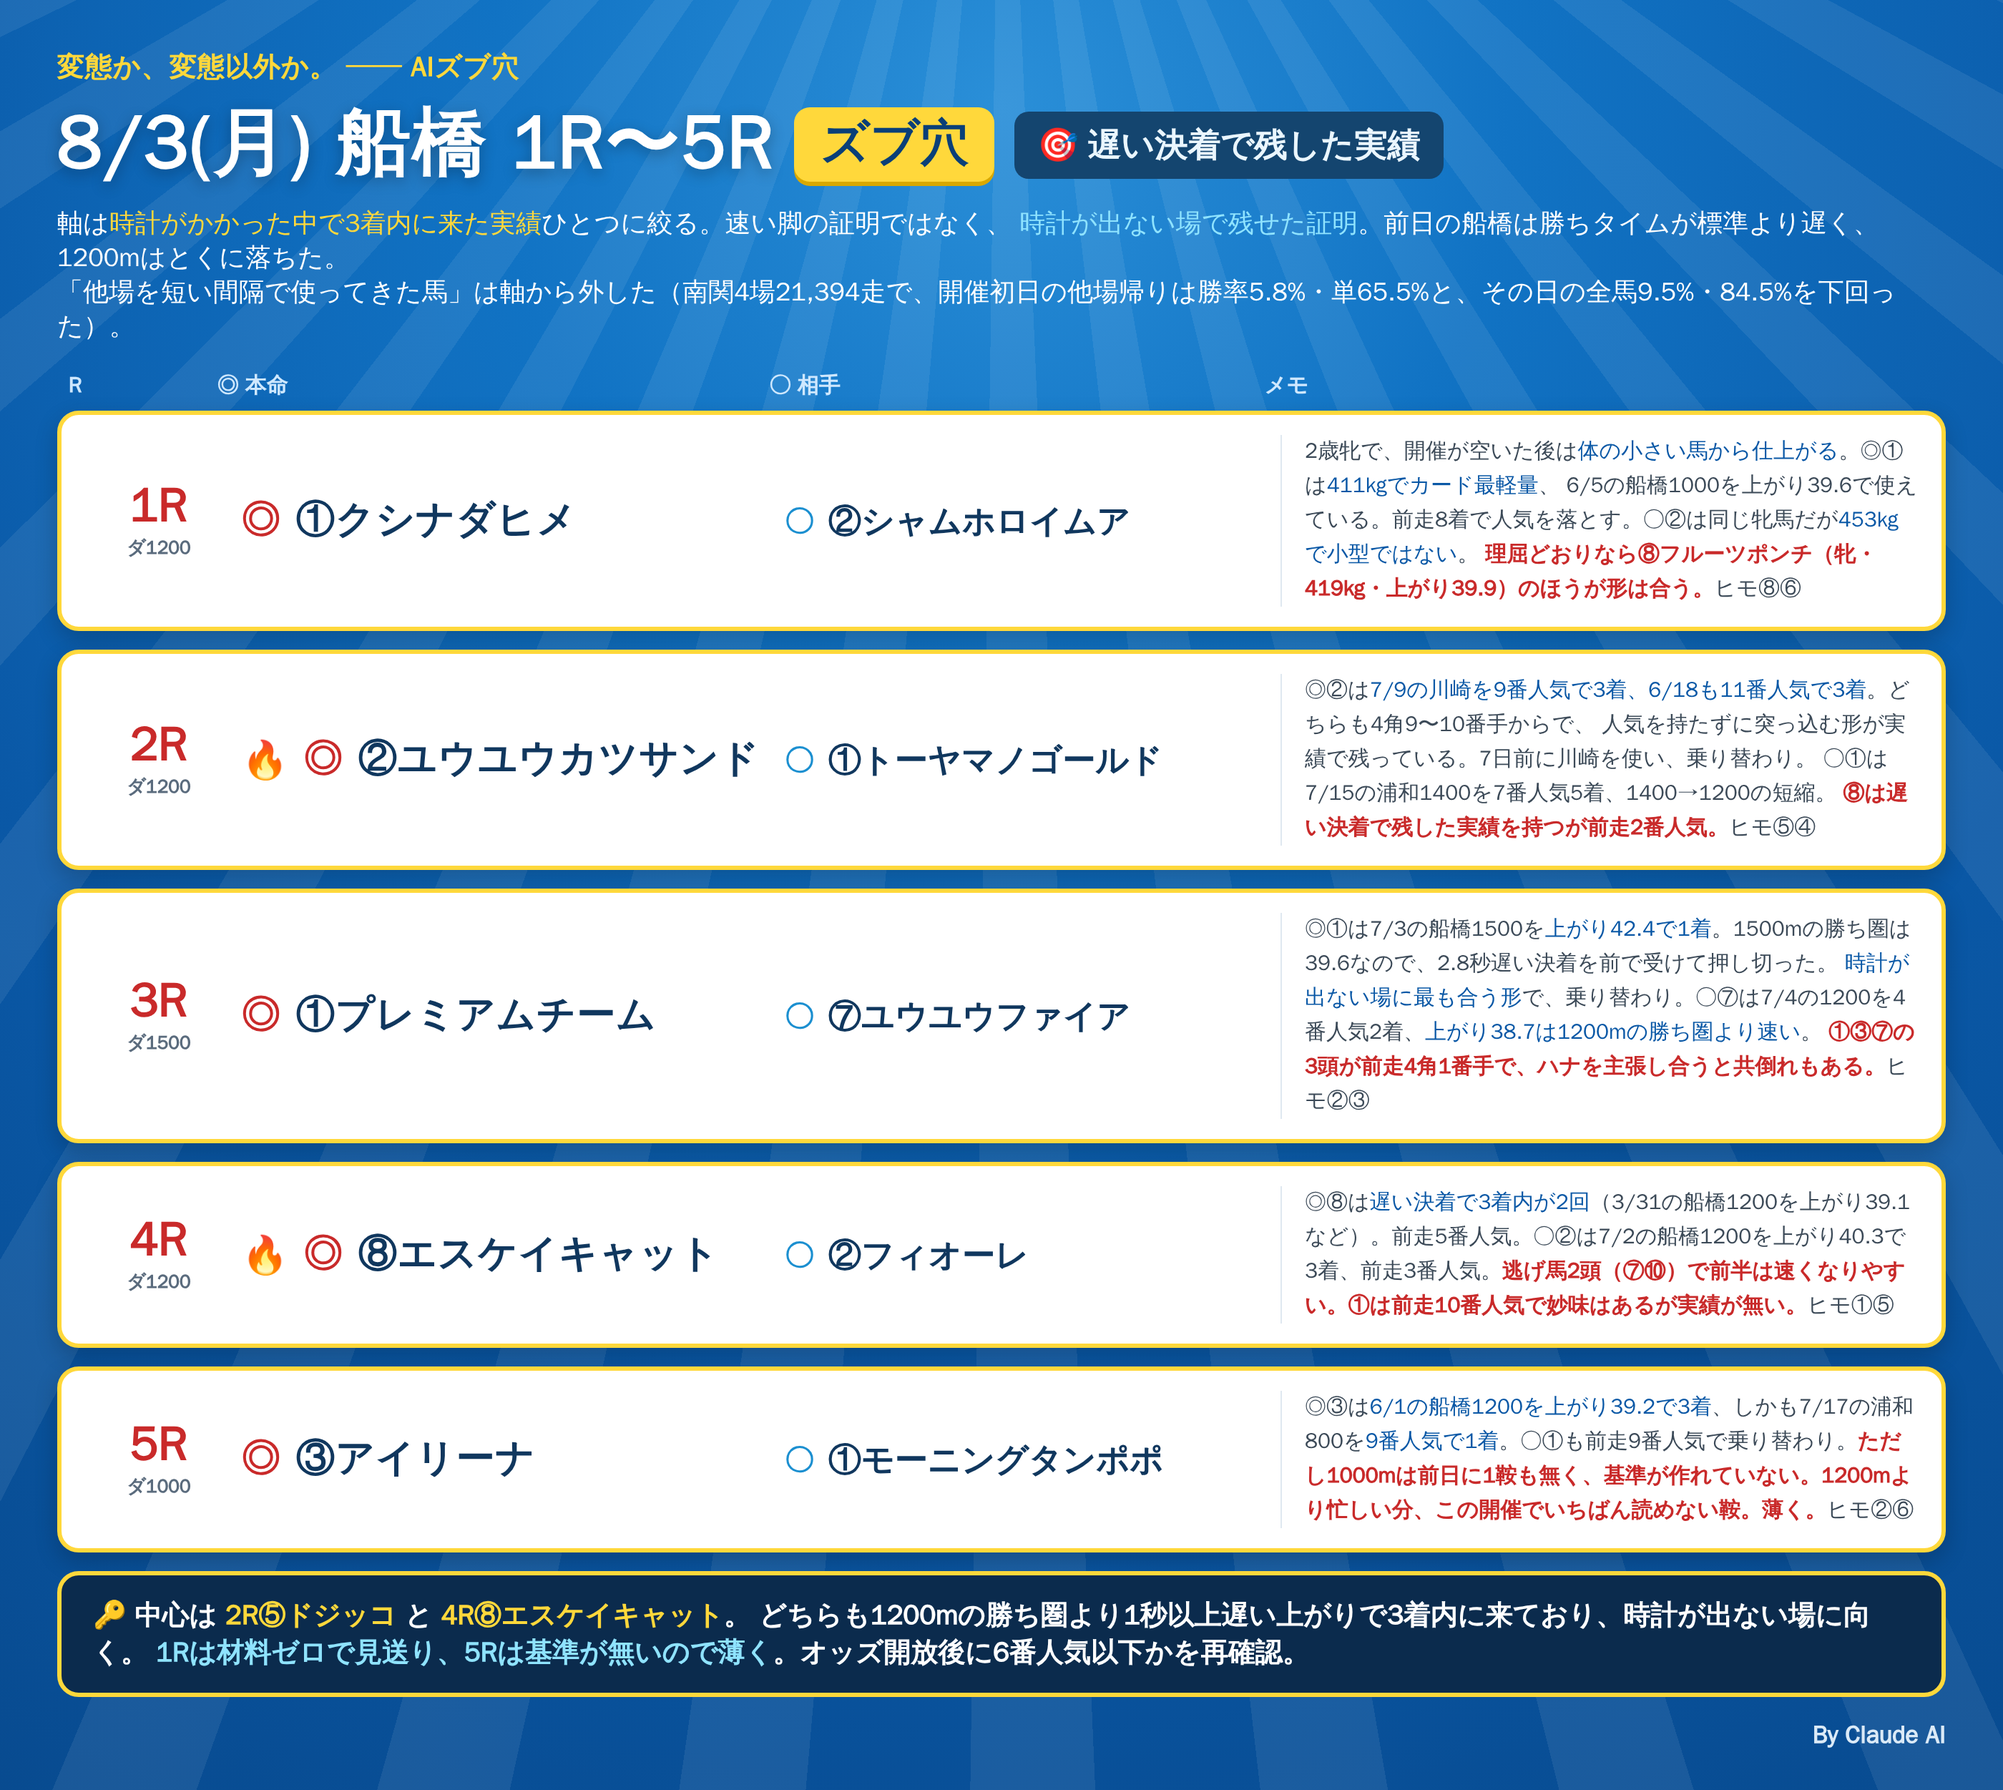
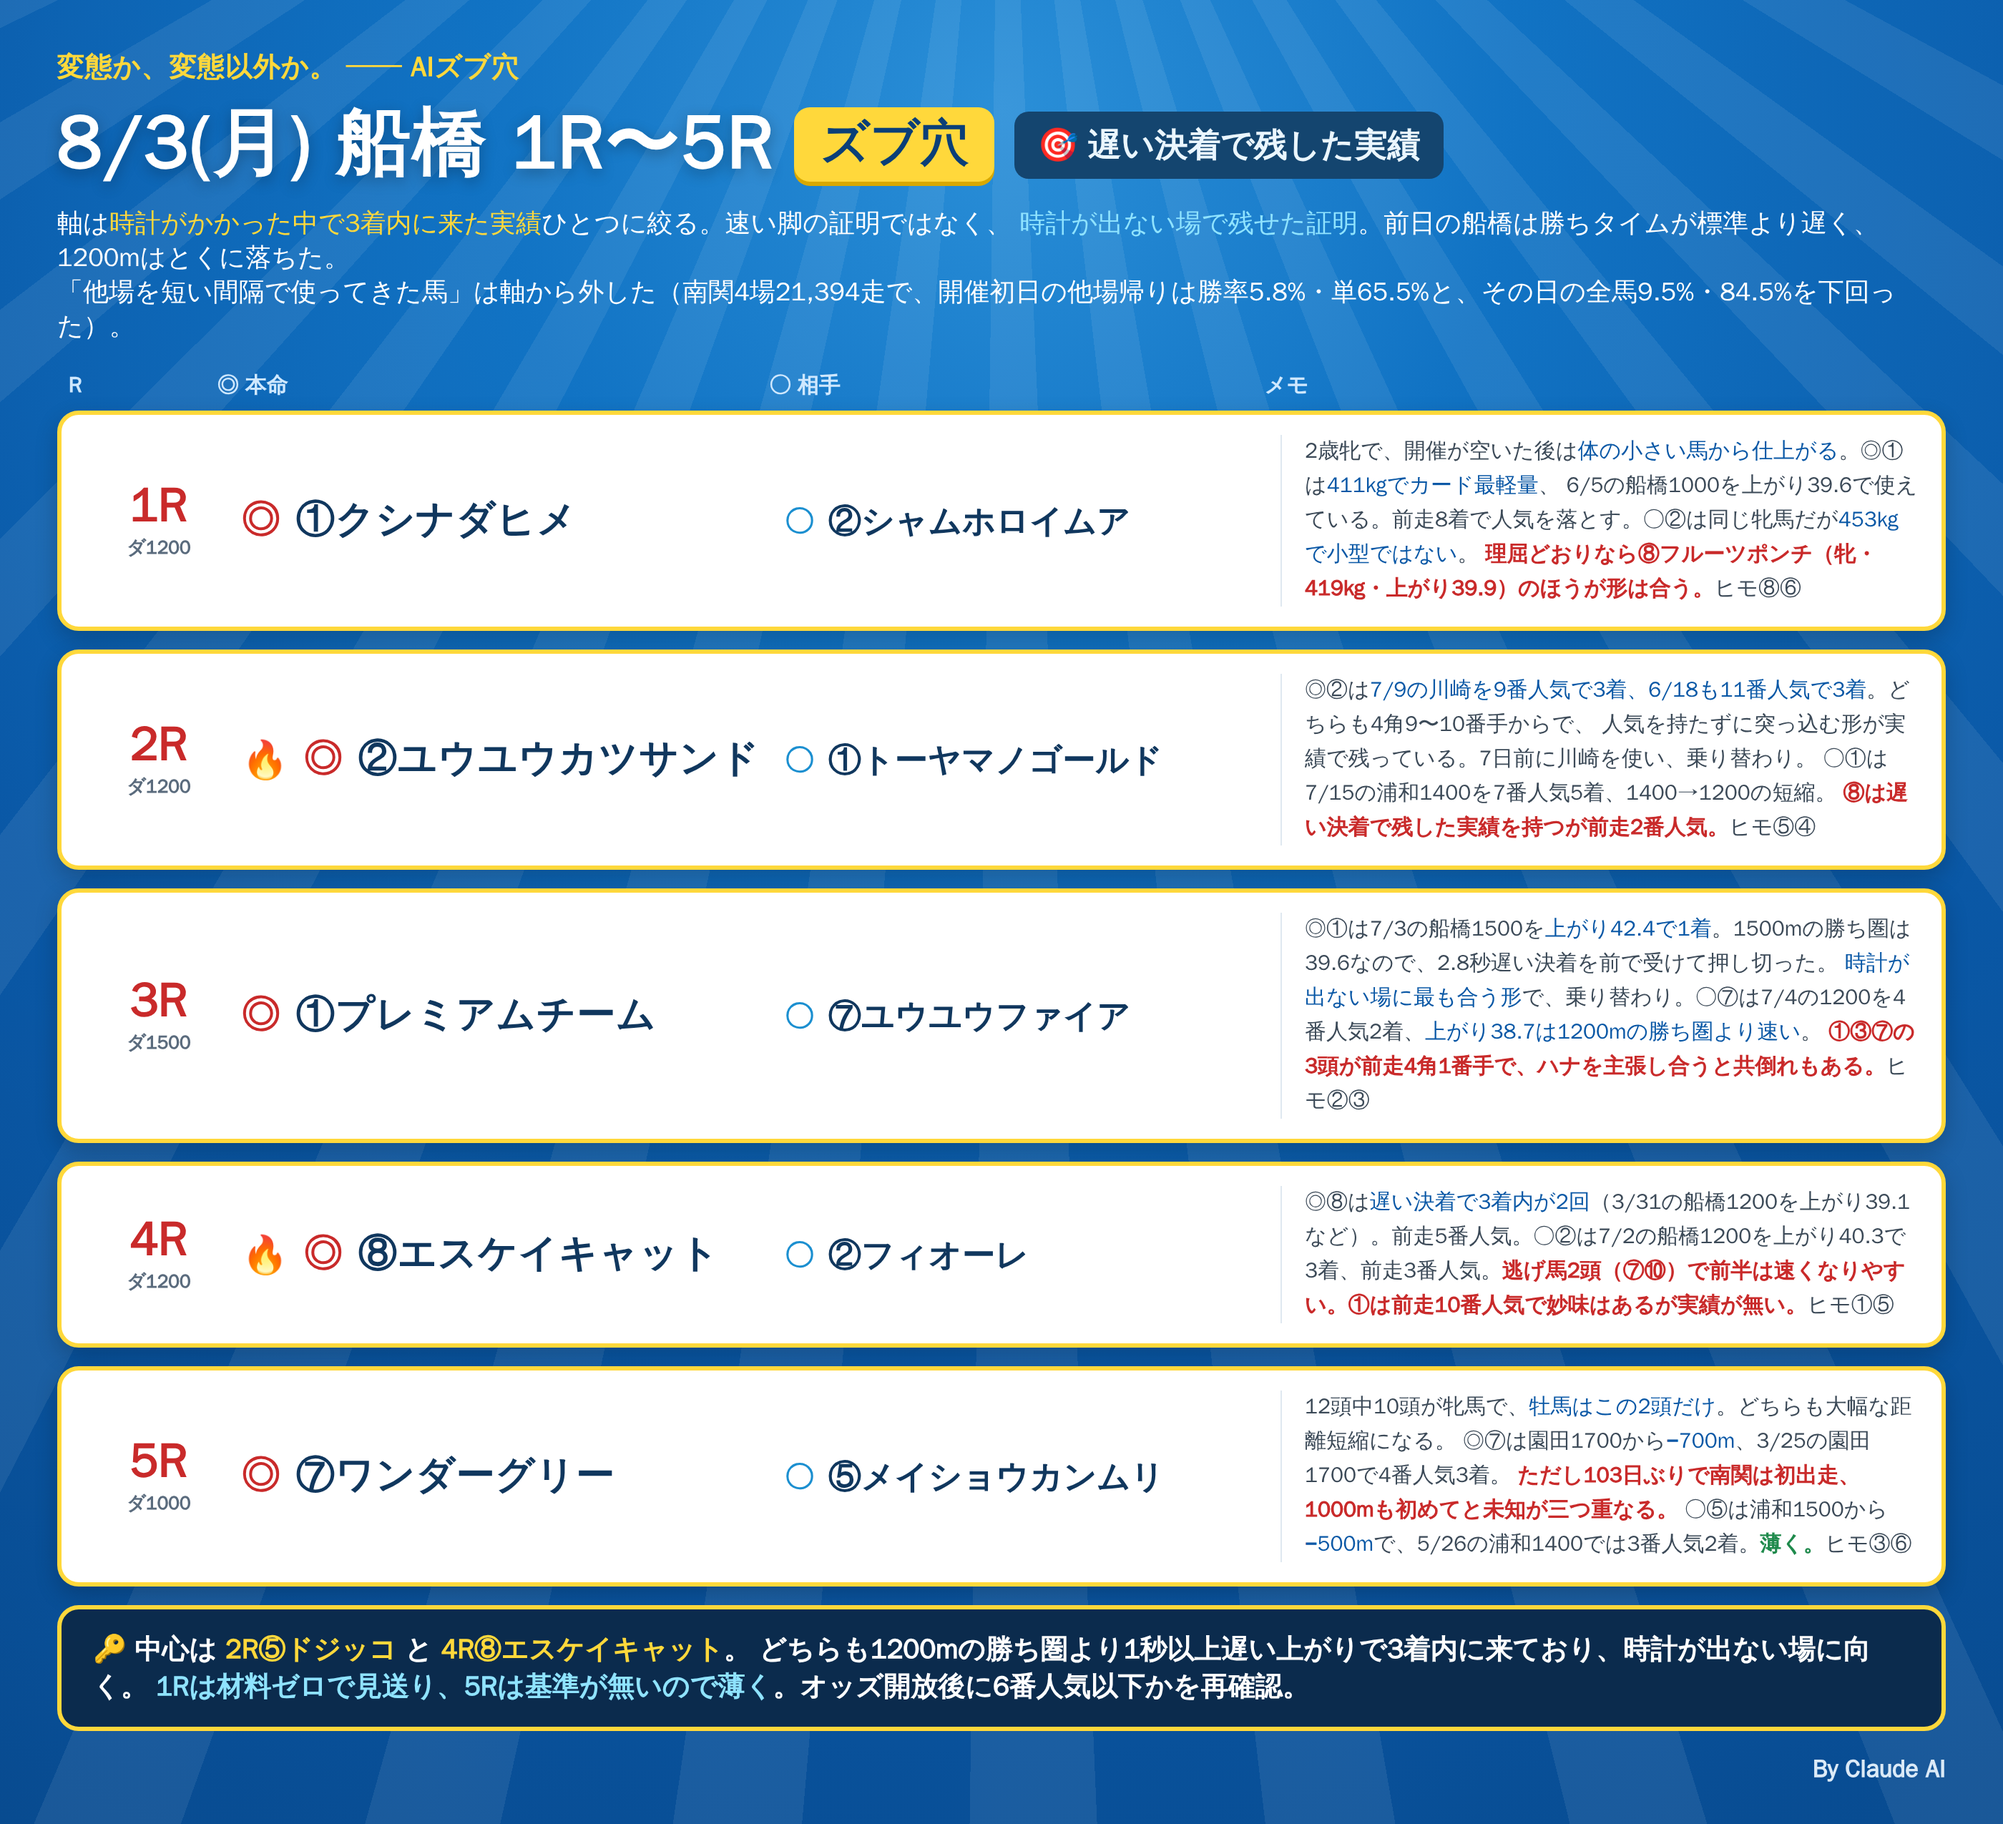
notes: swap 5R to the sharp distance-droppers

diff --git a/notes/live/2026-08-03/funabashi_1_5_final.html b/notes/live/2026-08-03/funabashi_1_5_final.html
@@ -89,9 +89,12 @@
   </div>
   <div class="row">
     <div class="rN"><div class="n">5R</div><div class="d">ダ1000</div></div>
-    <div class="hm"><span class="mk">◎</span><span class="nm">③アイリーナ</span></div>
-    <div class="at"><span class="mk2">○</span><span class="nm2">①モーニングタンポポ</span></div>
-    <div class="memo">◎③は<b>6/1の船橋1200を上がり39.2で3着</b>、しかも7/17の浦和800を<b>9番人気で1着</b>。○①も前走9番人気で乗り替わり。<span class='r'>ただし1000mは前日に1鞍も無く、基準が作れていない。1200mより忙しい分、この開催でいちばん読めない鞍。薄く。</span>ヒモ②⑥</div>
+    <div class="hm"><span class="mk">◎</span><span class="nm">⑦ワンダーグリー</span></div>
+    <div class="at"><span class="mk2">○</span><span class="nm2">⑤メイショウカンムリ</span></div>
+    <div class="memo">12頭中10頭が牝馬で、<b>牡馬はこの2頭だけ</b>。どちらも大幅な距離短縮になる。
+    ◎⑦は園田1700から<b>−700m</b>、3/25の園田1700で4番人気3着。
+    <span class='r'>ただし103日ぶりで南関は初出走、1000mも初めてと未知が三つ重なる。</span>
+    ○⑤は浦和1500から<b>−500m</b>で、5/26の浦和1400では3番人気2着。<span class='g'>薄く。</span>ヒモ③⑥</div>
   </div>
 
   <div class="foot">🔑 中心は <span class="y">2R⑤ドジッコ</span> と <span class="y">4R⑧エスケイキャット</span>。
